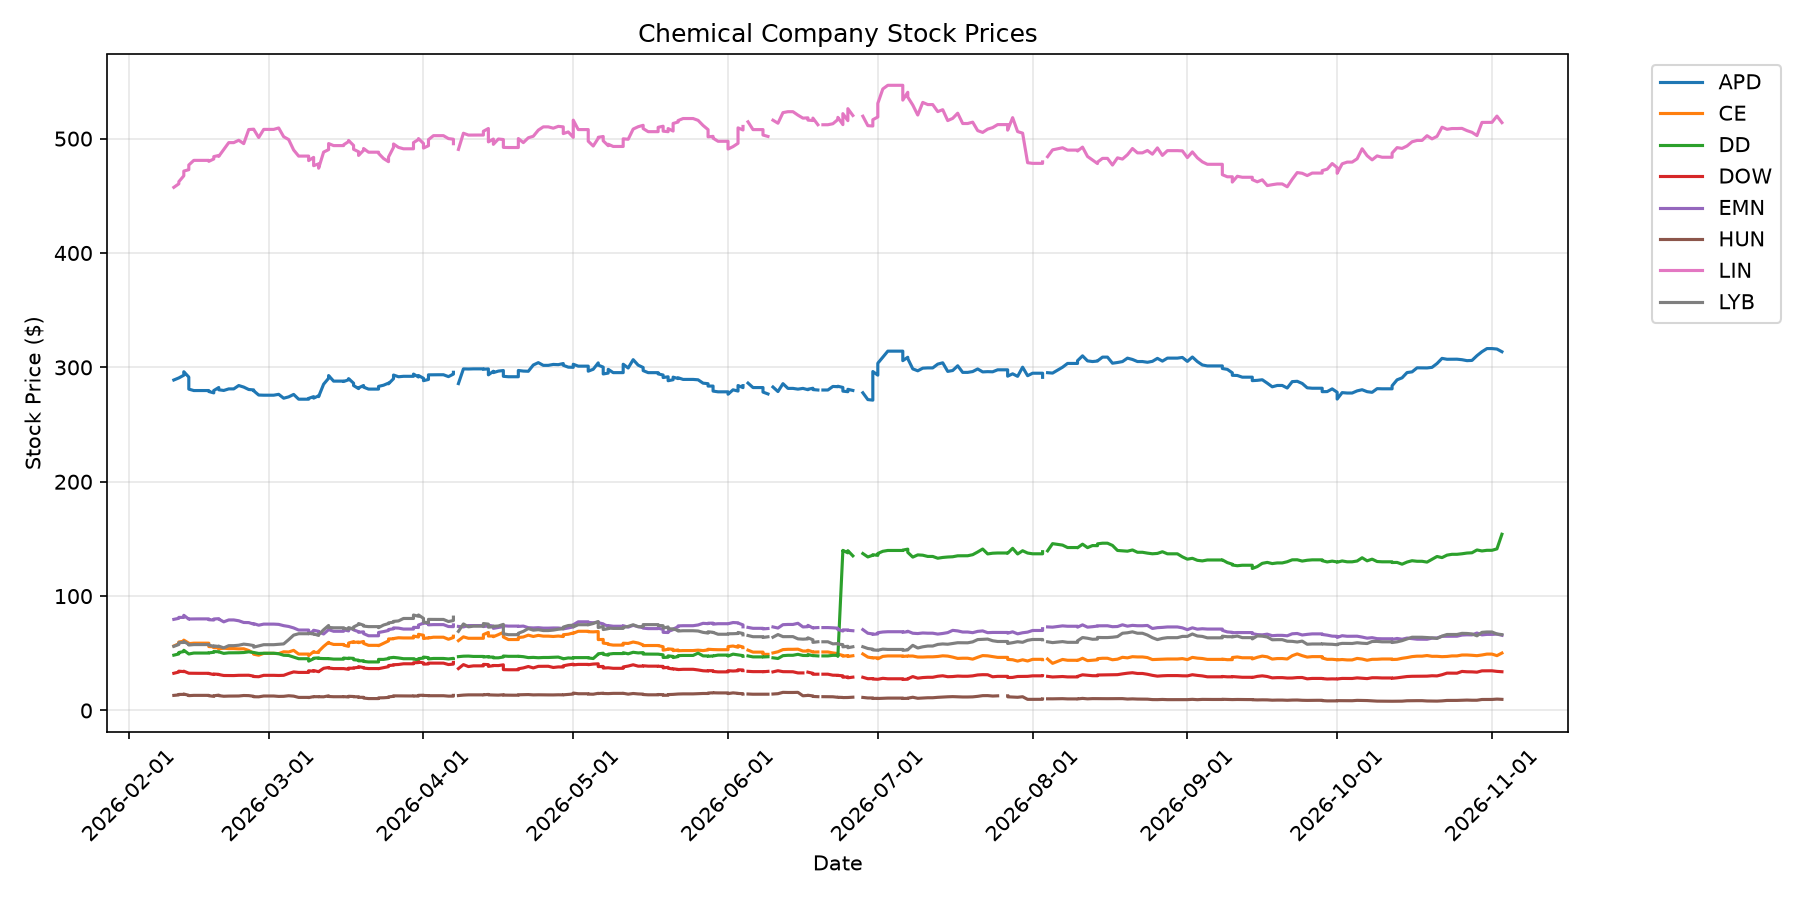
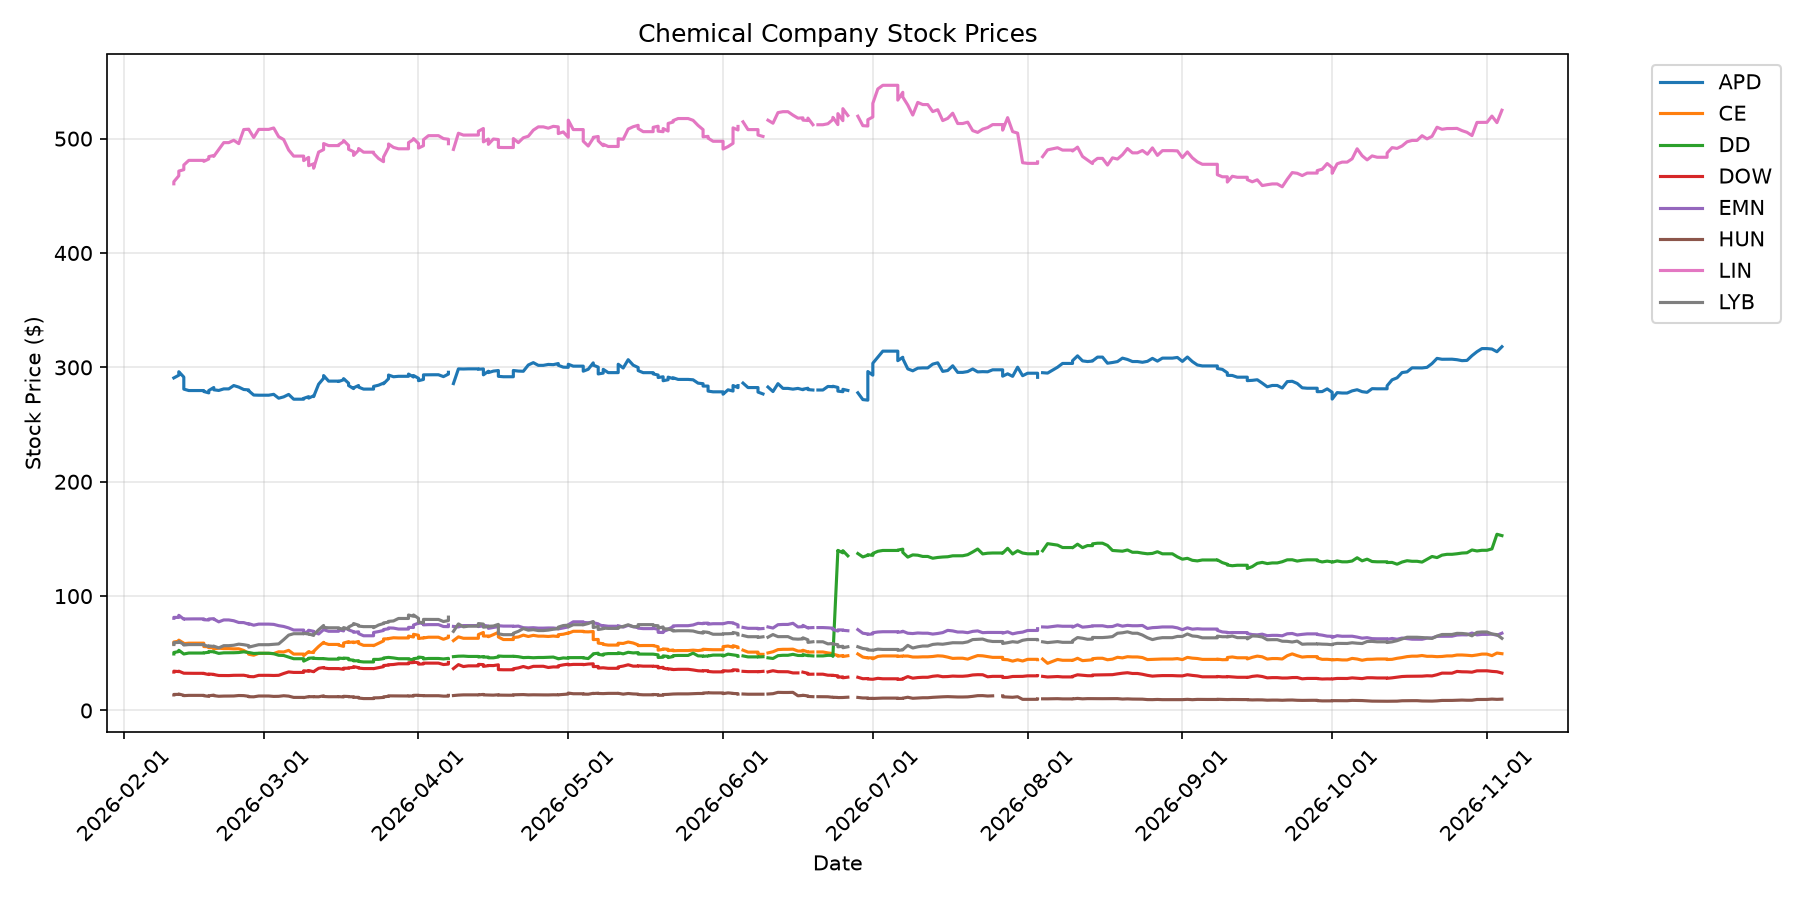
Daily price update: 2026-11-04

diff --git a/README.md b/README.md
@@ -2,29 +2,29 @@
 
 Automated daily tracking of chemical commodity prices and chemical company stocks.
 
-## Latest Prices (Updated: 2026-11-03)
+## Latest Prices (Updated: 2026-11-04)
 
 ### Energy Commodities
 
 | Commodity | Price | Change (24h) | Unit |
 |-----------|-------|--------------|------|
-| WTI Crude Oil | $96.66 | +0.20 (+0.21%) | $/barrel |
-| Brent Crude Oil | $104.31 | -0.46 (-0.44%) | $/barrel |
-| Natural Gas | $2.91 | +0.06 (+2.00%) | $/MMBtu |
-| Heating Oil | $4.56 | +0.14 (+3.18%) | $/gallon |
+| WTI Crude Oil | $88.76 | -7.33 (-7.63%) | $/barrel |
+| Brent Crude Oil | $95.29 | -8.31 (-8.02%) | $/barrel |
+| Natural Gas | $2.95 | +0.06 (+2.07%) | $/MMBtu |
+| Heating Oil | $4.22 | -0.31 (-6.80%) | $/gallon |
 
 ### Chemical Company Stocks
 
 | Company | Ticker | Price | Change (24h) |
 |---------|--------|-------|--------------|
-| Dow Inc. | DOW | $33.88 | -0.30 (-0.86%) |
-| LyondellBasell | LYB | $66.33 | -0.55 (-0.82%) |
-| DuPont | DD | $154.09 | +12.79 (+9.05%) |
-| Air Products | APD | $313.68 | -2.35 (-0.74%) |
-| Linde | LIN | $514.00 | -5.72 (-1.10%) |
-| Eastman Chemical | EMN | $65.75 | -1.03 (-1.53%) |
-| Celanese | CE | $50.21 | +2.27 (+4.74%) |
-| Huntsman | HUN | $9.72 | -0.23 (-2.34%) |
+| Dow Inc. | DOW | $32.74 | -1.05 (-3.11%) |
+| LyondellBasell | LYB | $63.06 | -3.03 (-4.58%) |
+| DuPont | DD | $152.88 | -0.58 (-0.38%) |
+| Air Products | APD | $318.07 | +5.10 (+1.63%) |
+| Linde | LIN | $524.85 | +13.30 (+2.60%) |
+| Eastman Chemical | EMN | $67.58 | +2.25 (+3.44%) |
+| Celanese | CE | $49.64 | -0.72 (-1.43%) |
+| Huntsman | HUN | $9.89 | +0.34 (+3.53%) |
 
 ## Data Sources
 

diff --git a/logs/update_log.md b/logs/update_log.md
@@ -422,3 +422,4 @@ Daily updates to the chemical engineering data repository.
 - **2026-11-01 18:39:45**: Updated 4 energy prices, 8 stocks, 0 FRED series
 - **2026-11-02 22:30:44**: Updated 4 energy prices, 8 stocks, 0 FRED series
 - **2026-11-03 20:20:30**: Updated 4 energy prices, 8 stocks, 0 FRED series
+- **2026-11-04 20:35:53**: Updated 4 energy prices, 8 stocks, 0 FRED series
